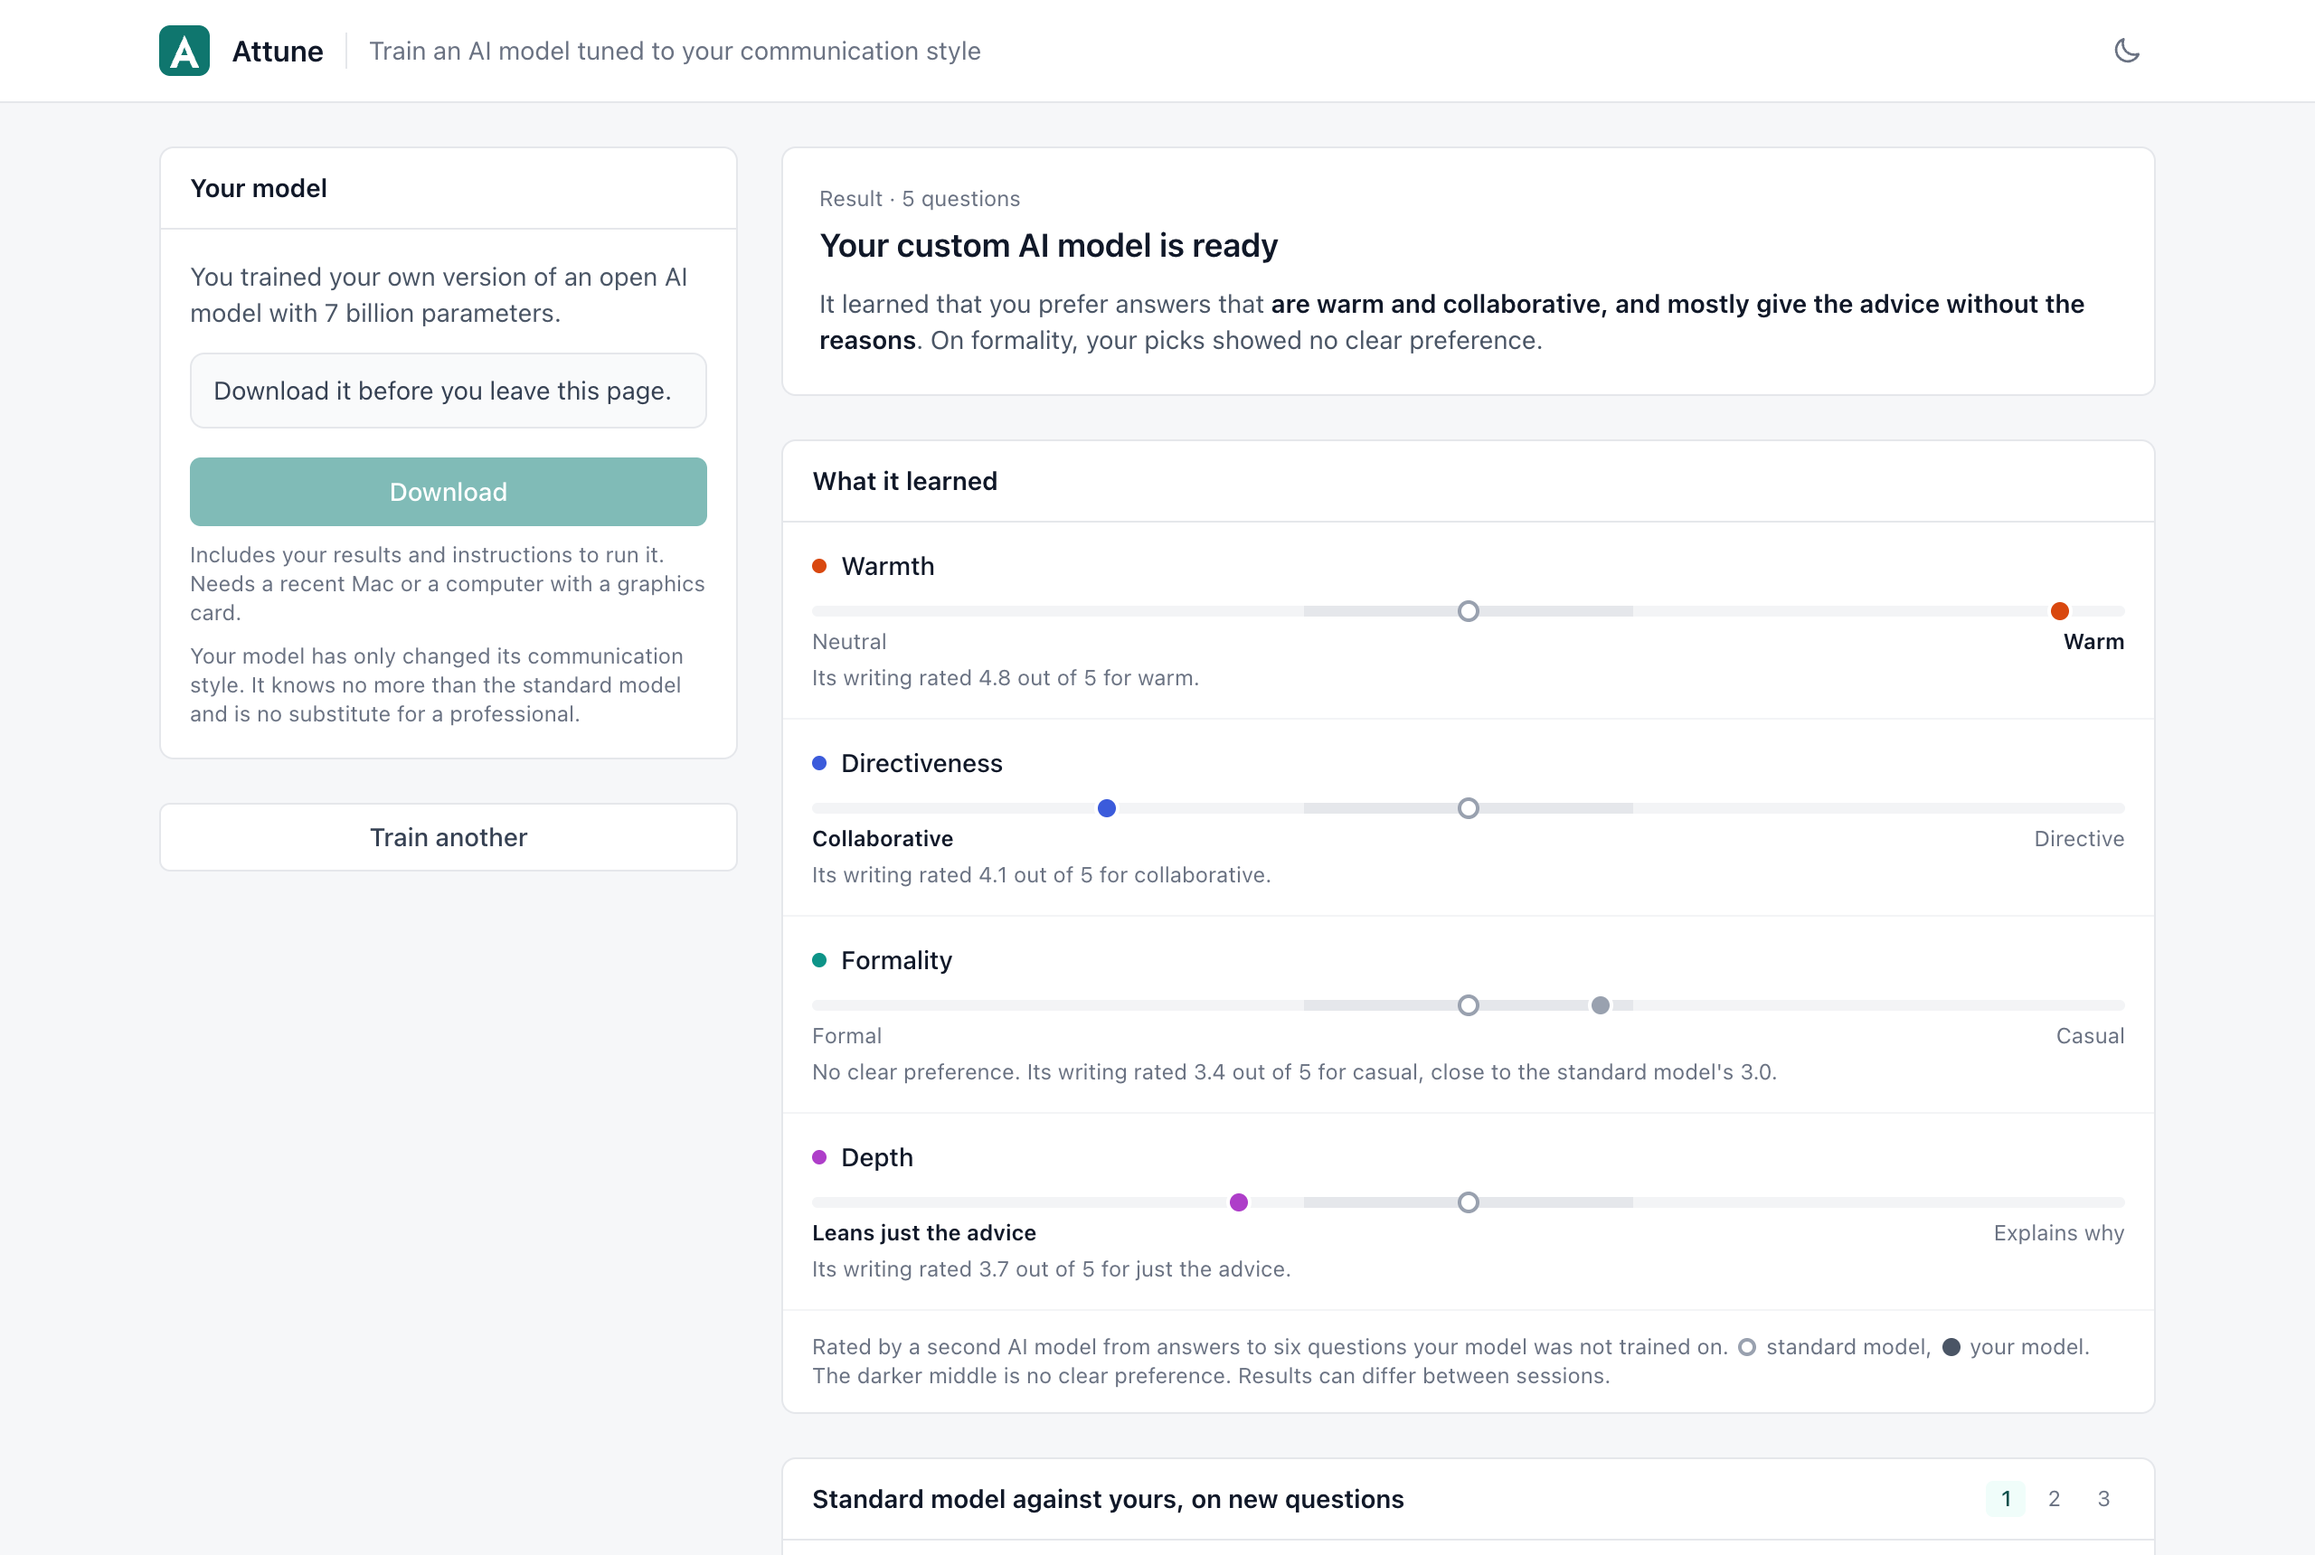
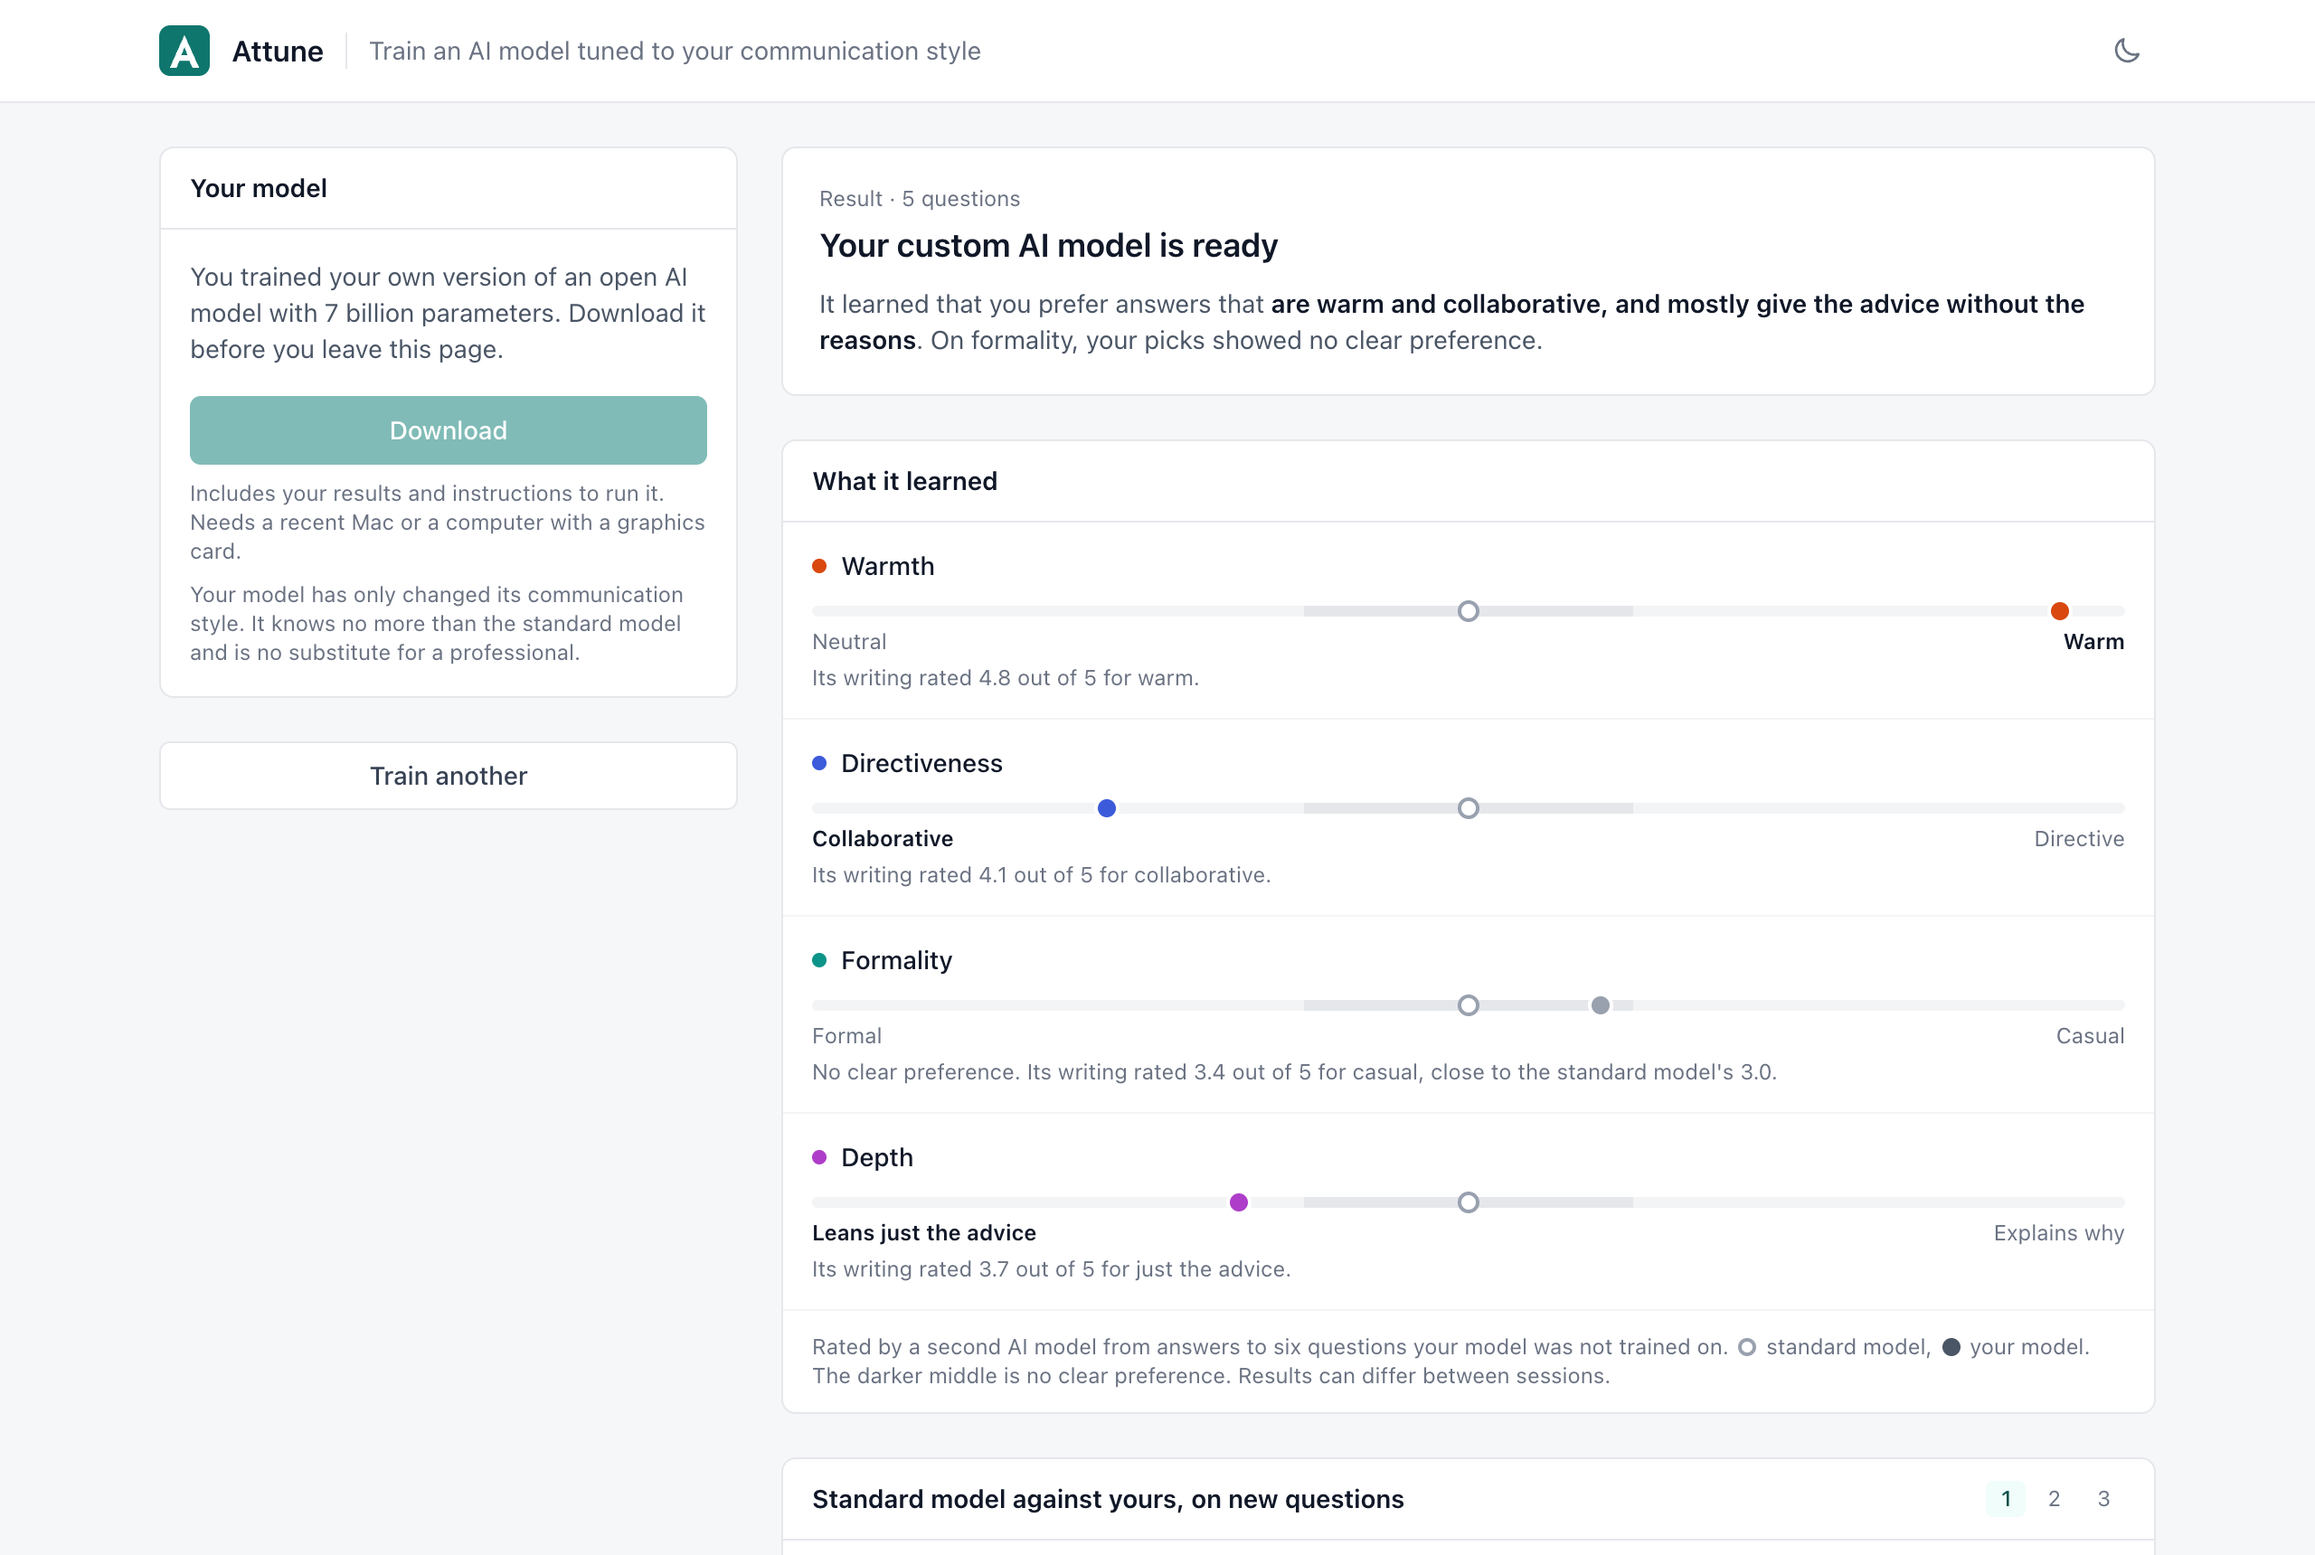
Model card: drop the alert box

Changed region(s): [[0.0625, 0.2157, 0.3125, 0.5547], [0.25, 0.1849, 0.3125, 0.2157]]

diff --git a/app/frontend/src/screens/Results.tsx b/app/frontend/src/screens/Results.tsx
@@ -156,8 +156,7 @@ function ModelCard({ session, mock }: { session: string; mock: boolean }) {
     <section className="panel" aria-labelledby="model">
       <h2 id="model" className="panel-title border-b border-gray-200 px-4 py-3">Your model</h2>
       <div className="p-4">
-        <p className="text-gray-600">You trained your own version of an open AI model with 7 billion parameters.</p>
-        <p className="mt-3 rounded-lg border border-gray-200 bg-gray-50 px-3 py-2.5 text-gray-700">Download it before you leave this page.</p>
+        <p className="text-gray-600">You trained your own version of an open AI model with 7 billion parameters. Download it before you leave this page.</p>
         <div className="mt-4">
           {mock ? <><button className="btn btn-primary w-full" disabled>Download</button><p className="hint mt-2">Downloads are switched off in demo mode.</p></>
             : status?.configured === false ? <p className="hint">Downloads are not set up on this server.</p>
